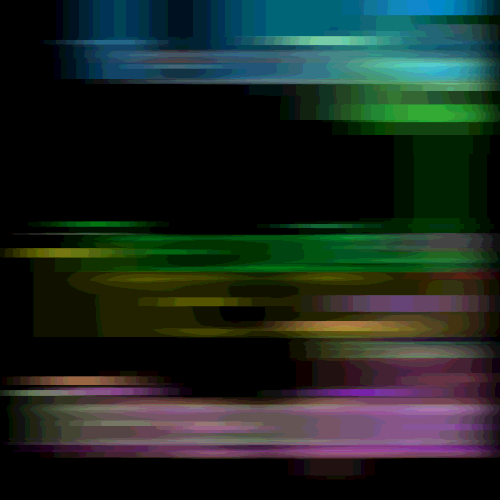
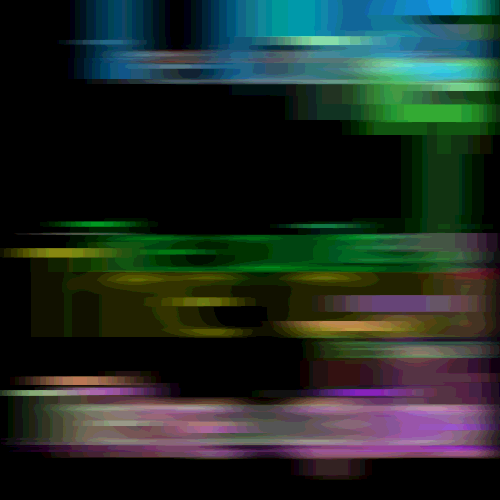
Clean up the use of AutoScratchTexture in the gaussian blur and morphology filters.  Instead of passing in AutoScratchTextures for temporaries, we allocate them inside the function and detach() after rendering.  Since the functions now return a ref()'ed texture, we no longer ref() the result in filt
Also, the imageblur gm was passing a paint with an image filter both to
saveLayer()/restore(), and to every text draw call.  Back when only restore()
was applying filters, this was fine, but since we're now applying filters on all
draw calls, this means we're double-blurring in this GM.

I've reverted the Mac baselines for the imageblur GM to their previous versions;
hopefully this will be correct.

diff --git a/src/gpu/GrContext.cpp b/src/gpu/GrContext.cpp
@@ -1808,13 +1808,11 @@ const GrIndexBuffer* GrContext::getQuadIndexBuffer() const {
 }
 
 GrTexture* GrContext::gaussianBlur(GrTexture* srcTexture,
-                                   GrAutoScratchTexture* temp1,
-                                   GrAutoScratchTexture* temp2,
+                                   bool canClobberSrc,
                                    const SkRect& rect,
                                    float sigmaX, float sigmaY) {
     ASSERT_OWNED_RESOURCE(srcTexture);
     GrRenderTarget* oldRenderTarget = this->getRenderTarget();
-    GrTexture* origTexture = srcTexture;
     AutoMatrix avm(this, GrMatrix::I());
     SkIRect clearRect;
     int scaleFactorX, radiusX;
@@ -1840,12 +1838,10 @@ GrTexture* GrContext::gaussianBlur(GrTexture* srcTexture,
     desc.fHeight = SkScalarFloorToInt(srcRect.height());
     desc.fConfig = srcTexture->config();
 
-    temp1->set(this, desc);
-    if (temp2) {
-        temp2->set(this, desc);
-    }
+    GrAutoScratchTexture temp1, temp2;
+    GrTexture* dstTexture = temp1.set(this, desc);
+    GrTexture* tempTexture = canClobberSrc ? srcTexture : temp2.set(this, desc);
 
-    GrTexture* dstTexture = temp1->texture();
     GrPaint paint;
     paint.reset();
     paint.textureSampler(0)->setFilter(GrSamplerState::kBilinear_Filter);
@@ -1860,11 +1856,8 @@ GrTexture* GrContext::gaussianBlur(GrTexture* srcTexture,
         paint.setTexture(0, srcTexture);
         this->drawRectToRect(paint, dstRect, srcRect);
         srcRect = dstRect;
-        SkTSwap(srcTexture, dstTexture);
-        // If temp2 is non-NULL, don't render back to origTexture
-        if (temp2 && dstTexture == origTexture) {
-            dstTexture = temp2->texture();
-        }
+        srcTexture = dstTexture;
+        SkTSwap(dstTexture, tempTexture);
     }
 
     SkIRect srcIRect;
@@ -1882,10 +1875,8 @@ GrTexture* GrContext::gaussianBlur(GrTexture* srcTexture,
         this->setRenderTarget(dstTexture->asRenderTarget());
         convolve_gaussian(fGpu, srcTexture, srcRect, sigmaX, radiusX,
                           Gr1DKernelEffect::kX_Direction);
-        SkTSwap(srcTexture, dstTexture);
-        if (temp2 && dstTexture == origTexture) {
-            dstTexture = temp2->texture();
-        }
+        srcTexture = dstTexture;
+        SkTSwap(dstTexture, tempTexture);
     }
 
     if (sigmaY > 0.0f) {
@@ -1900,10 +1891,8 @@ GrTexture* GrContext::gaussianBlur(GrTexture* srcTexture,
         this->setRenderTarget(dstTexture->asRenderTarget());
         convolve_gaussian(fGpu, srcTexture, srcRect, sigmaY, radiusY,
                           Gr1DKernelEffect::kY_Direction);
-        SkTSwap(srcTexture, dstTexture);
-        if (temp2 && dstTexture == origTexture) {
-            dstTexture = temp2->texture();
-        }
+        srcTexture = dstTexture;
+        SkTSwap(dstTexture, tempTexture);
     }
 
     if (scaleFactorX > 1 || scaleFactorY > 1) {
@@ -1925,27 +1914,40 @@ GrTexture* GrContext::gaussianBlur(GrTexture* srcTexture,
         scale_rect(&dstRect, (float) scaleFactorX, (float) scaleFactorY);
         this->drawRectToRect(paint, dstRect, srcRect);
         srcRect = dstRect;
-        SkTSwap(srcTexture, dstTexture);
+        srcTexture = dstTexture;
+        SkTSwap(dstTexture, tempTexture);
     }
     this->setRenderTarget(oldRenderTarget);
-    return srcTexture;
+    if (srcTexture == temp1.texture()) {
+        return temp1.detach();
+    } else if (srcTexture == temp2.texture()) {
+        return temp2.detach();
+    } else {
+        srcTexture->ref();
+        return srcTexture;
+    }
 }
 
 GrTexture* GrContext::applyMorphology(GrTexture* srcTexture,
                                       const GrRect& rect,
-                                      GrTexture* temp1, GrTexture* temp2,
                                       MorphologyType morphType,
                                       SkISize radius) {
     ASSERT_OWNED_RESOURCE(srcTexture);
+    srcTexture->ref();
     GrRenderTarget* oldRenderTarget = this->getRenderTarget();
 
     AutoMatrix avm(this, GrMatrix::I());
 
     AutoClip acs(this, GrRect::MakeWH(SkIntToScalar(srcTexture->width()), 
                                            SkIntToScalar(srcTexture->height())));
-
+    GrTextureDesc desc;
+    desc.fFlags = kRenderTarget_GrTextureFlagBit | kNoStencil_GrTextureFlagBit;
+    desc.fWidth = SkScalarCeilToInt(rect.width());
+    desc.fHeight = SkScalarCeilToInt(rect.height());
+    desc.fConfig = kRGBA_8888_PM_GrPixelConfig;
     if (radius.fWidth > 0) {
-        this->setRenderTarget(temp1->asRenderTarget());
+        GrAutoScratchTexture ast(this, desc);
+        this->setRenderTarget(ast.texture()->asRenderTarget());
         apply_morphology(fGpu, srcTexture, rect, radius.fWidth, morphType,
                          Gr1DKernelEffect::kX_Direction);
         SkIRect clearRect = SkIRect::MakeXYWH(
@@ -1954,13 +1956,16 @@ GrTexture* GrContext::applyMorphology(GrTexture* srcTexture,
                     SkScalarFloorToInt(rect.width()), 
                     radius.fHeight);
         this->clear(&clearRect, 0x0);
-        srcTexture = temp1;
+        srcTexture->unref();
+        srcTexture = ast.detach();
     }
     if (radius.fHeight > 0) {
-        this->setRenderTarget(temp2->asRenderTarget());
+        GrAutoScratchTexture ast(this, desc);
+        this->setRenderTarget(ast.texture()->asRenderTarget());
         apply_morphology(fGpu, srcTexture, rect, radius.fHeight, morphType,
                          Gr1DKernelEffect::kY_Direction);
-        srcTexture = temp2;
+        srcTexture->unref();
+        srcTexture = ast.detach();
     }
     this->setRenderTarget(oldRenderTarget);
     return srcTexture;

diff --git a/include/gpu/GrContext.h b/include/gpu/GrContext.h
@@ -591,18 +591,16 @@ public:
     /**
      * Applies a 2D Gaussian blur to a given texture.
      * @param srcTexture      The source texture to be blurred.
-     * @param temp1           A scratch texture.  Must not be NULL.
-     * @param temp2           A scratch texture.  May be NULL, in which case
-     *                        srcTexture is overwritten with intermediate
-     *                        results.
+     * @param canClobberSrc   If true, srcTexture may be overwritten, and
+     *                        may be returned as the result.
      * @param rect            The destination rectangle.
      * @param sigmaX          The blur's standard deviation in X.
      * @param sigmaY          The blur's standard deviation in Y.
-     * @return the blurred texture, which may be temp1, temp2 or srcTexture.
+     * @return the blurred texture, which may be srcTexture ref'ed, or a
+     * new texture.  It is the caller's responsibility to unref this texture.
      */
      GrTexture* gaussianBlur(GrTexture* srcTexture,
-                             GrAutoScratchTexture* temp1,
-                             GrAutoScratchTexture* temp2,
+                             bool canClobberSrc,
                              const SkRect& rect,
                              float sigmaX, float sigmaY);
 
@@ -618,18 +616,16 @@ public:
      * Applies a 2D morphology to a given texture.
      * @param srcTexture      The source texture to be blurred.
      * @param rect            The destination rectangle.
-     * @param temp1           A scratch texture.  Must not be NULL.
-     * @param temp2           A scratch texture.  Must not be NULL.
      * @param filter          The morphology filter.  Must be kDilate_Filter or
      *                        kErode_Filter.
      * @param radius          The morphology radius in X and Y.  The filter is
      *                        applied to a fWidth by fHeight rectangle of
      *                        pixels.
-     * @return the morphed texture, which may be temp1, temp2 or srcTexture.
+     * @return the morphed texture, which may be srcTexture ref'ed, or a
+     * new texture.  It is the caller's responsibility to unref this texture.
      */
     GrTexture* applyMorphology(GrTexture* srcTexture,
                                const GrRect& rect,
-                               GrTexture* temp1, GrTexture* temp2,
                                MorphologyType type,
                                SkISize radius);
     

diff --git a/src/gpu/SkGpuDevice.cpp b/src/gpu/SkGpuDevice.cpp
@@ -869,14 +869,11 @@ bool drawWithGPUMaskFilter(GrContext* context, const SkPath& path,
     // Draw hard shadow to pathTexture with path topleft at origin 0,0.
     context->drawPath(tempPaint, path, pathFillType, &offset);
 
-    GrAutoScratchTexture temp1, temp2;
     // If we're doing a normal blur, we can clobber the pathTexture in the
     // gaussianBlur.  Otherwise, we need to save it for later compositing.
     bool isNormalBlur = blurType == SkMaskFilter::kNormal_BlurType;
-    GrTexture* blurTexture = context->gaussianBlur(pathTexture,
-                                                   &temp1,
-                                                   isNormalBlur ? NULL : &temp2,
-                                                   srcRect, sigma, sigma);
+    SkAutoTUnref<GrTexture> blurTexture(context->gaussianBlur(
+        pathTexture, isNormalBlur, srcRect, sigma, sigma));
 
     if (!isNormalBlur) {
         GrPaint paint;
@@ -1506,25 +1503,17 @@ static GrTexture* filter_texture(GrContext* context, GrTexture* texture,
         texture = dst.detach();
         stage->unref();
     } else if (filter->asABlur(&blurSize)) {
-        GrAutoScratchTexture temp1, temp2;
-        texture = context->gaussianBlur(texture, &temp1, &temp2, rect,
+        texture = context->gaussianBlur(texture, false, rect,
                                         blurSize.width(),
                                         blurSize.height());
-        texture->ref();
     } else if (filter->asADilate(&radius)) {
-        GrAutoScratchTexture temp1(context, desc), temp2(context, desc);
         texture = context->applyMorphology(texture, rect,
-                                           temp1.texture(), temp2.texture(),
                                            GrContext::kDilate_MorphologyType,
                                            radius);
-        texture->ref();
     } else if (filter->asAnErode(&radius)) {
-        GrAutoScratchTexture temp1(context, desc), temp2(context, desc);
         texture = context->applyMorphology(texture, rect,
-                                           temp1.texture(), temp2.texture(),
                                            GrContext::kErode_MorphologyType,
                                            radius);
-        texture->ref();
     }
     return texture;
 }

diff --git a/gm/imageblur.cpp b/gm/imageblur.cpp
@@ -32,16 +32,17 @@ protected:
         SkPaint paint;
         paint.setImageFilter(new SkBlurImageFilter(24.0f, 0.0f))->unref();
         canvas->saveLayer(NULL, &paint);
-        paint.setAntiAlias(true);
         const char* str = "The quick brown fox jumped over the lazy dog.";
         srand(1234);
+        SkPaint textPaint;
+        textPaint.setAntiAlias(true);
         for (int i = 0; i < 25; ++i) {
             int x = rand() % WIDTH;
             int y = rand() % HEIGHT;
-            paint.setColor(rand() % 0x1000000 | 0xFF000000);
-            paint.setTextSize(SkIntToScalar(rand() % 300));
+            textPaint.setColor(rand() % 0x1000000 | 0xFF000000);
+            textPaint.setTextSize(SkIntToScalar(rand() % 300));
             canvas->drawText(str, strlen(str), SkIntToScalar(x),
-                             SkIntToScalar(y), paint);
+                             SkIntToScalar(y), textPaint);
         }
         canvas->restore();
     }
